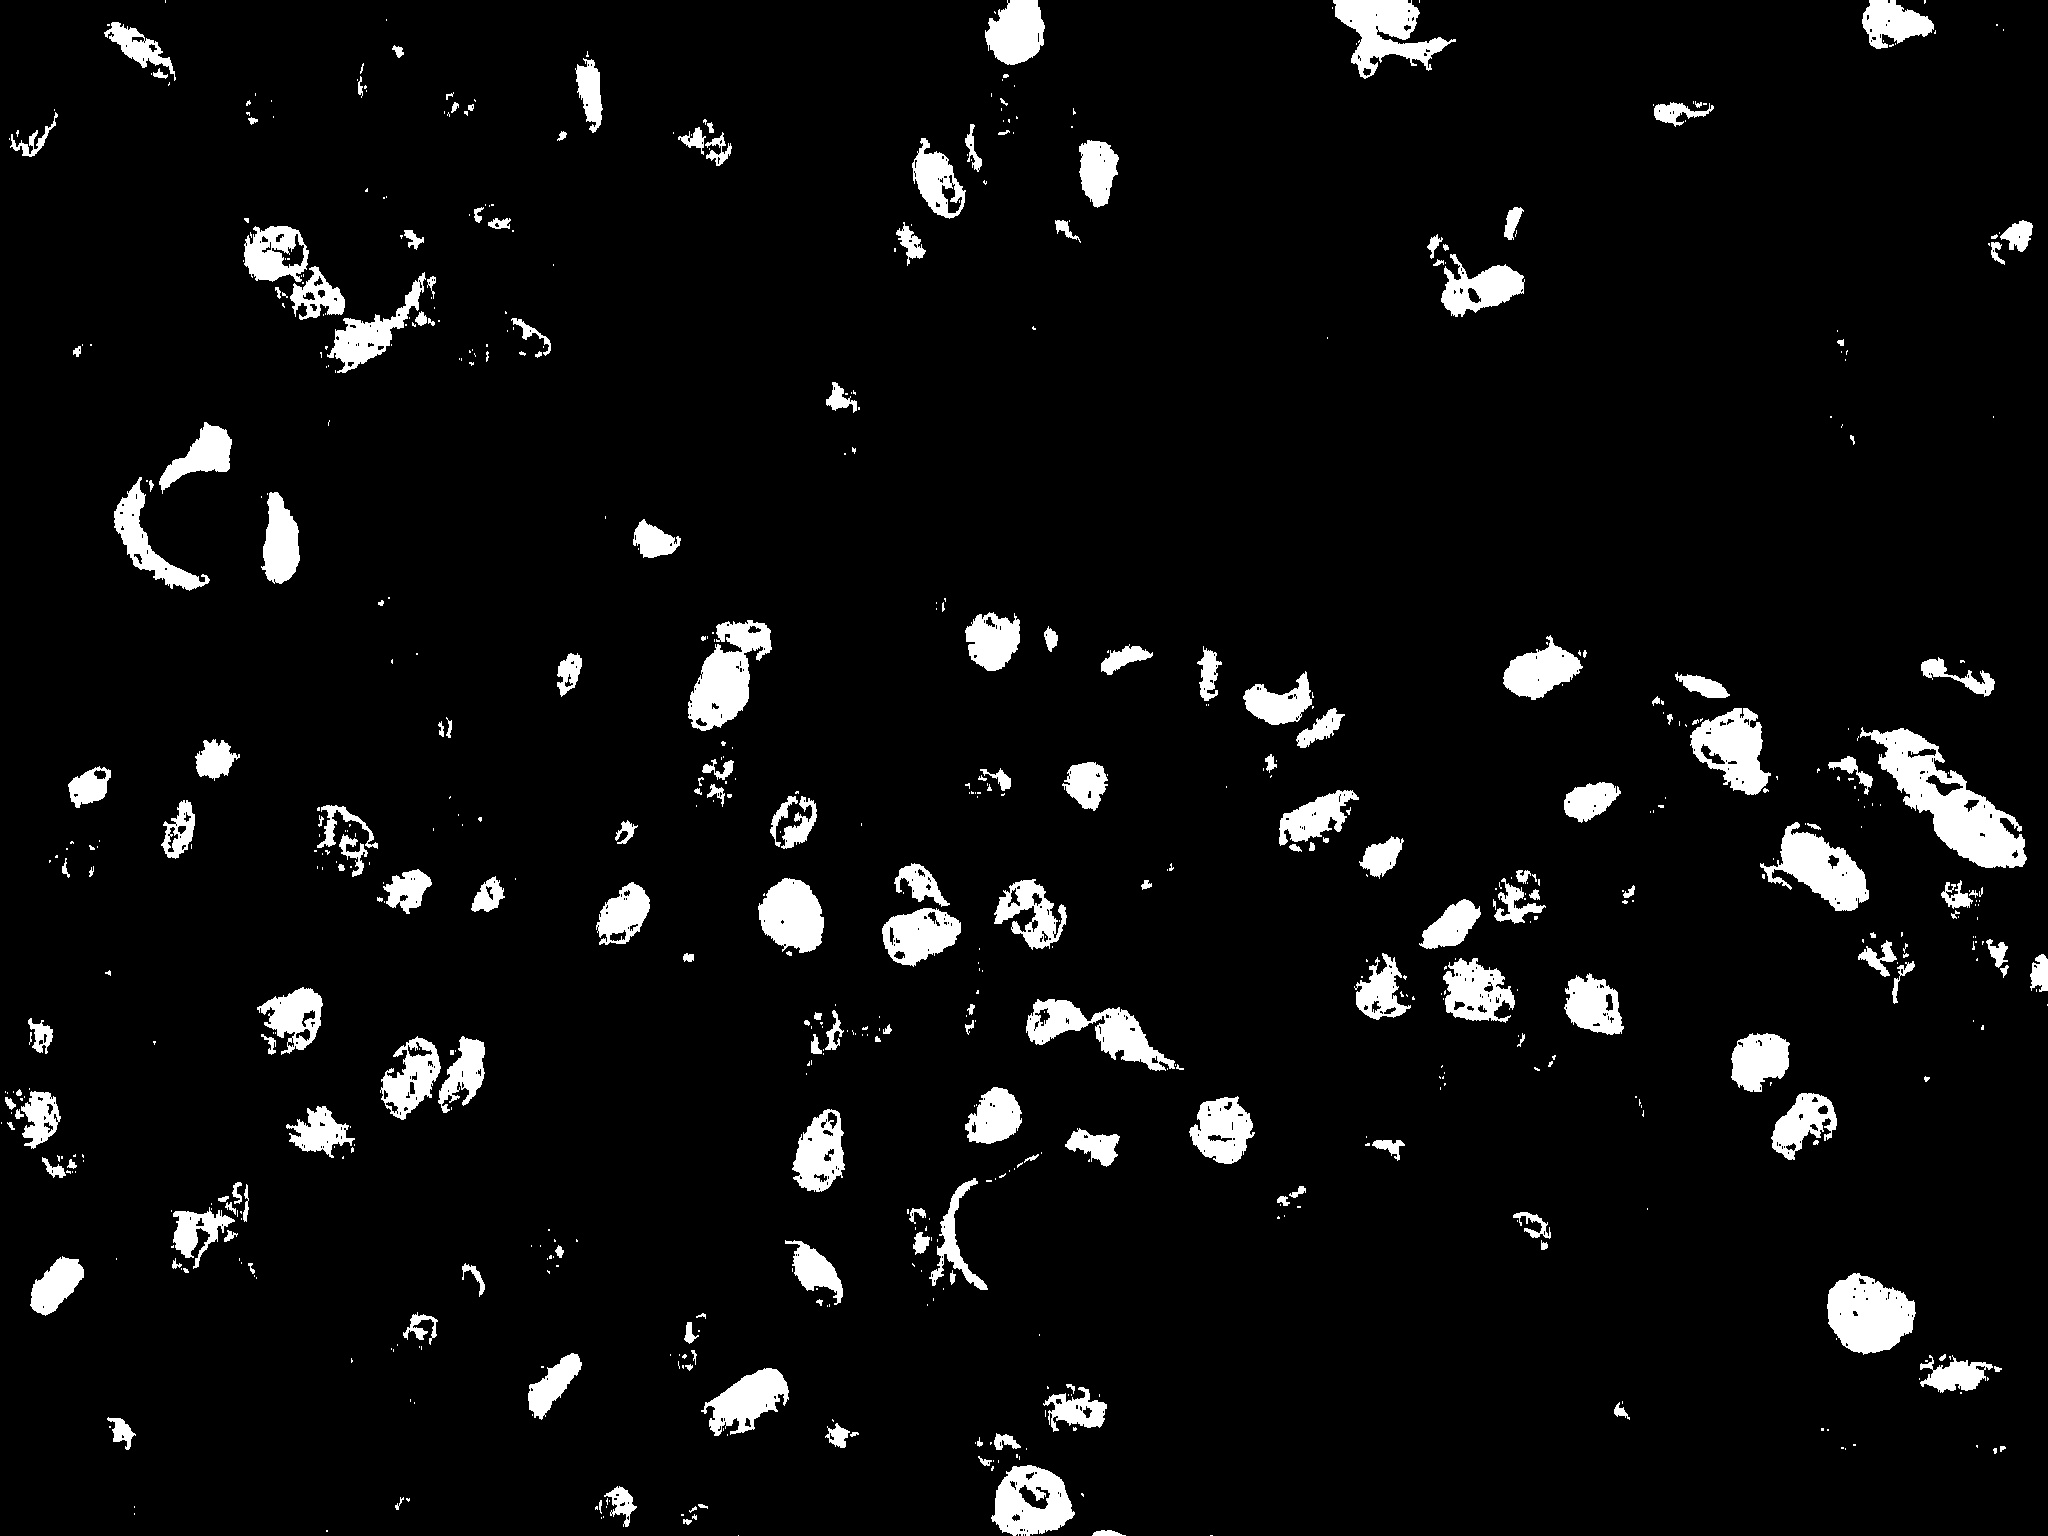
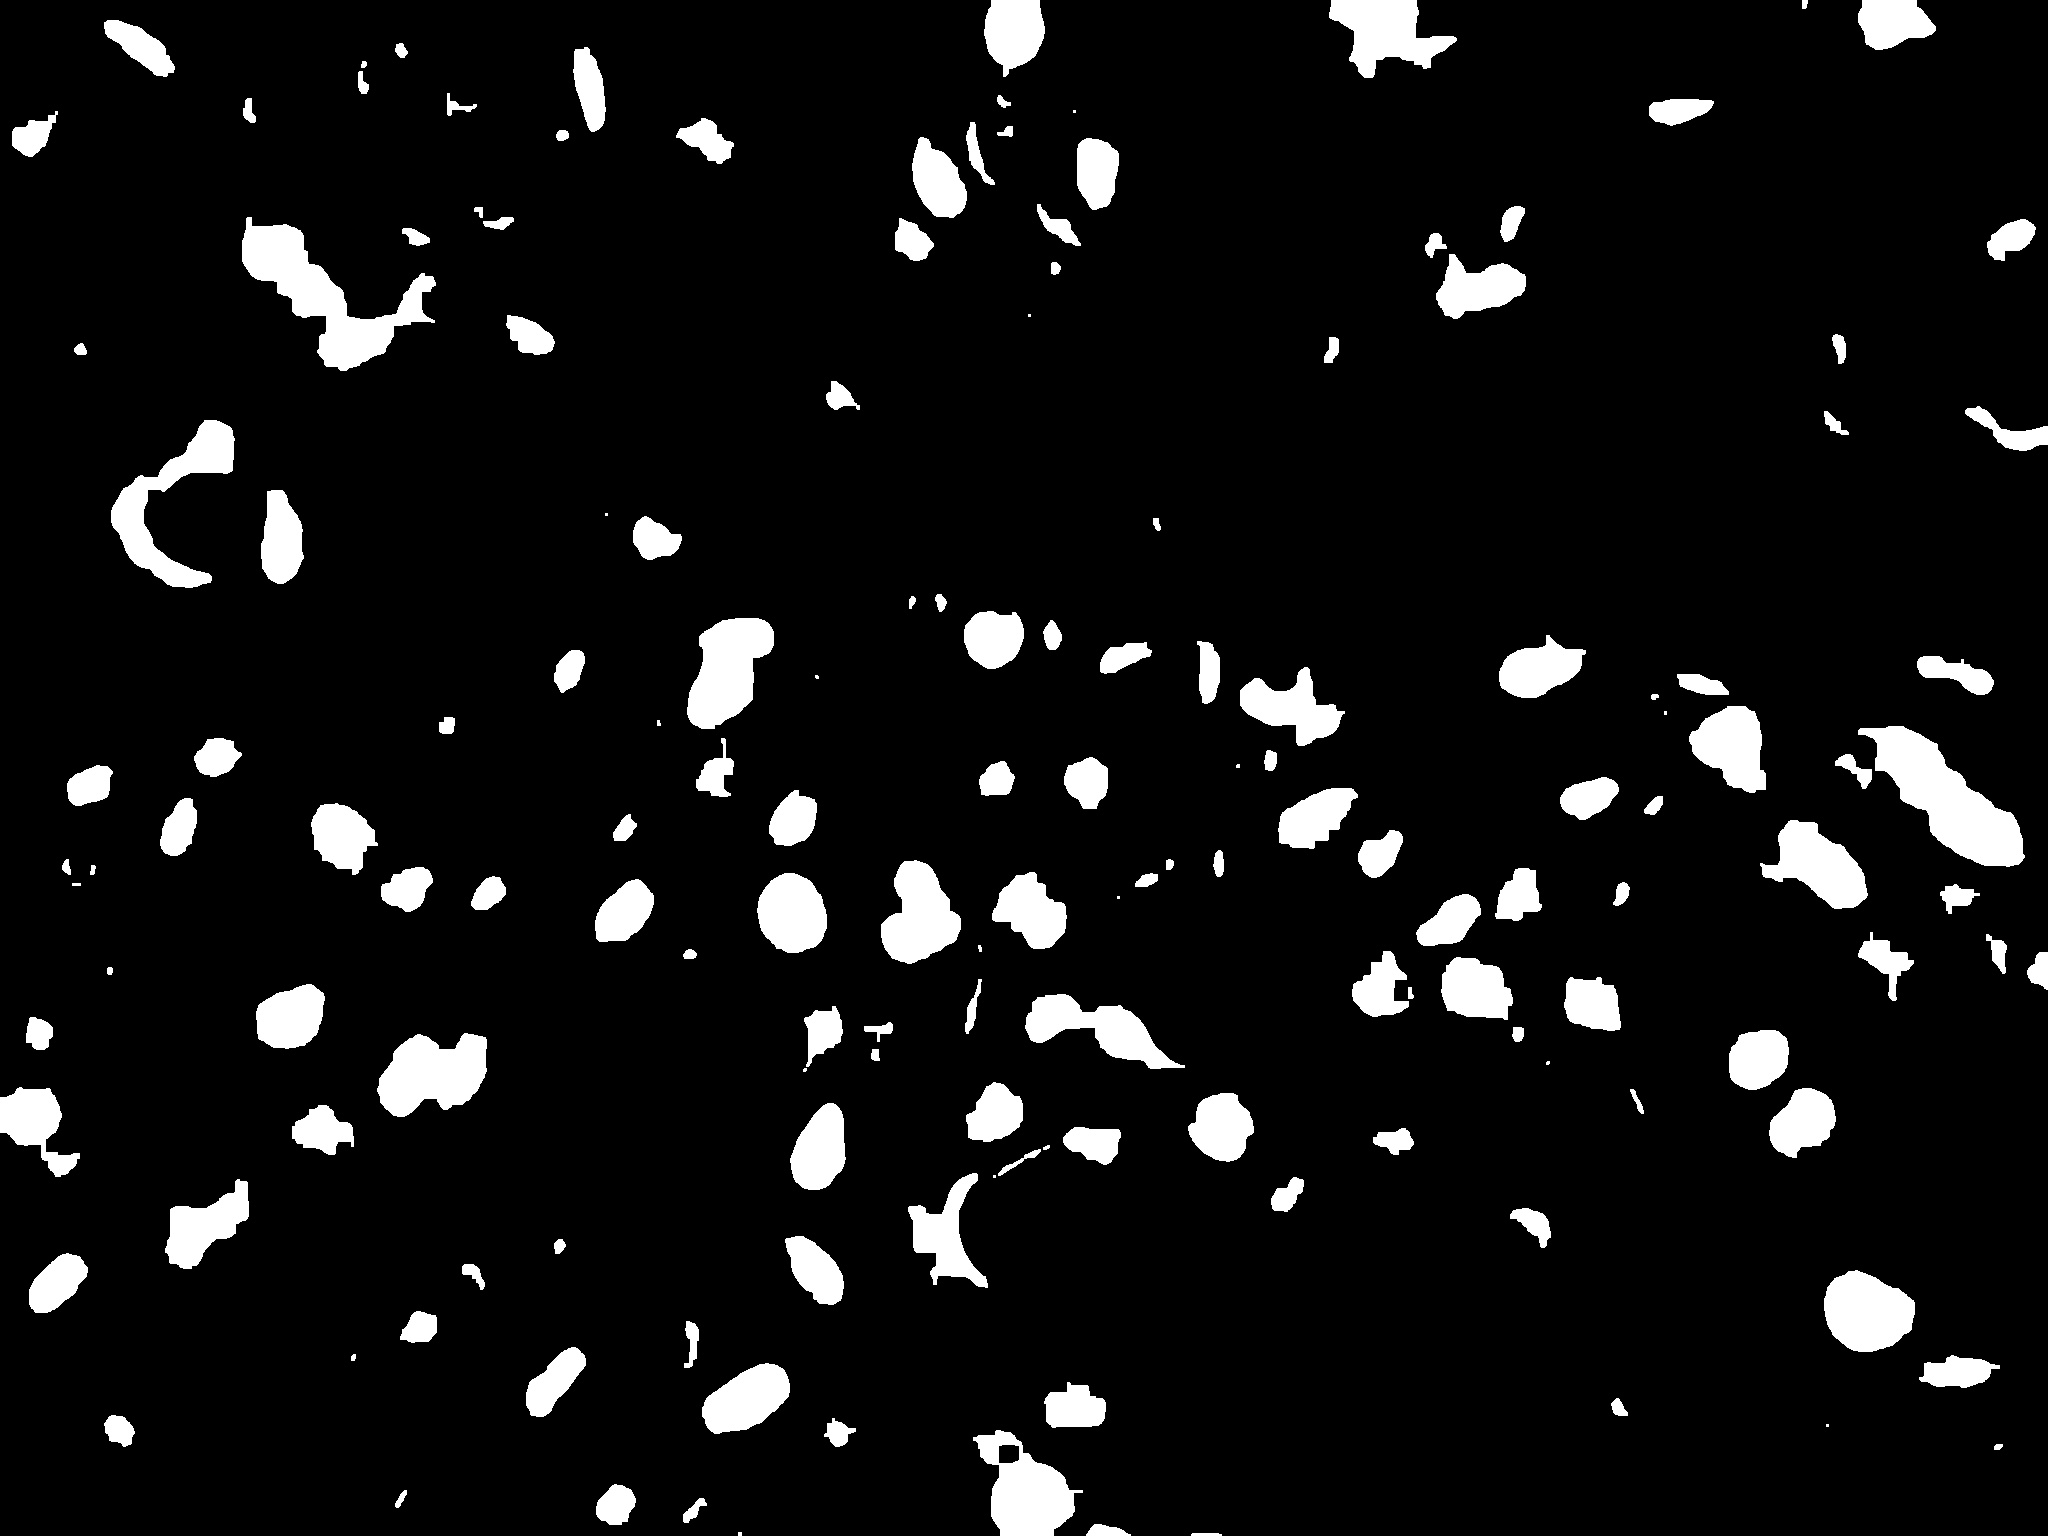
overlaped image is displayed, default hsv values are working
M and N hotkeys  to load default hsv values

diff --git a/main.py b/main.py
@@ -16,6 +16,10 @@ import requests
 from functools import reduce
 import time
 
+hsvValues = {
+            'color_1': {'l_h': 55, 'l_s': 30, 'l_v': 55, 'u_h': 179, 'u_s': 255, 'u_v': 113},
+        }
+
 def createWindows(val):
     cv2.namedWindow("Trackbars")
     cv2.resizeWindow("Trackbars", 1000, 500)
@@ -23,6 +27,7 @@ def createWindows(val):
     cv2.namedWindow("Results")
     cv2.resizeWindow("Results", 1920, 1200)
     pass
+
 
 def CreateTrackbars(val):
     cv2.createTrackbar("L - H", "Trackbars", 0, 179, ProcessImage)
@@ -38,23 +43,20 @@ def CreateTrackbars(val):
     cv.createTrackbar("ksize", "Trackbars", 0, 21, ProcessImage)
     pass
 
-def idontdoshit():
-    print('pAsS dA BuTThAaA')
-
 
 def SetVals(val):
     # Make them DICS?
-    global hsvValues
-    hsvValues = {
-        'color_1': {'l_h': 0, 'l_s': 0, 'l_v': 0, 'u_h': 0, 'h_s': 0, 'u_v': 0},
-    }
 
-    hsvValues['color_1']['l_h'] = 5
-    hsvValues['color_1']['l_s'] = 50
-    hsvValues['color_1']['l_v'] = 50
-    hsvValues['color_1']['u_h'] = 40
-    hsvValues['color_1']['u_s'] = 255
-    hsvValues['color_1']['u_v'] = 255
+    # hsvValues = {
+    #     'color_1': {'l_h': 0, 'l_s': 0, 'l_v': 0, 'u_h': 0, 'u_s': 0, 'u_v': 0},
+    # }
+
+    # hsvValues['color_1']['l_h'] = 5
+    # hsvValues['color_1']['l_s'] = 50
+    # hsvValues['color_1']['l_v'] = 50
+    # hsvValues['color_1']['u_h'] = 40
+    # hsvValues['color_1']['u_s'] = 255
+    # hsvValues['color_1']['u_v'] = 255
 
     global mask_3, mask_1, mask_2
     global lower_range, lower_range2
@@ -69,19 +71,57 @@ def SetVals(val):
     lower_range = np.array([hsvValues['color_1']['l_h'], hsvValues['color_1']['l_s'], hsvValues['color_1']['l_v']])
     upper_range = np.array([hsvValues['color_1']['u_h'], hsvValues['color_1']['u_s'], hsvValues['color_1']['u_v']])
 
-    #img = cv2.imread(r"D:\side-projects\nuclei\img\" + imagetoUse)
+    # img = cv2.imread(r"D:\side-projects\nuclei\img\" + imagetoUse)
     img = cv2.imread(r"D:\side-projects\nuclei\img\irl-img\ki001.jpg")
 
     cv2.setTrackbarPos("Morph Open", "Trackbars", morphOpenKernel)
     cv2.setTrackbarPos("Morph Open", "Trackbars", morphCloseKernel)
 
-def setTrackbarsInitialPosition(val):
-    cv2.setTrackbarPos("L - H", "Trackbars", hsvValues['color_1']['l_h'])
-    cv2.setTrackbarPos("L - S", "Trackbars", hsvValues['color_1']['l_s'])
-    cv2.setTrackbarPos("L - V", "Trackbars", hsvValues['color_1']['l_v'])
-    cv2.setTrackbarPos("U - H", "Trackbars", hsvValues['color_1']['u_h'])
-    cv2.setTrackbarPos("U - S", "Trackbars", hsvValues['color_1']['u_s'])
-    cv2.setTrackbarPos("U - V", "Trackbars", hsvValues['color_1']['u_v'])
+
+def dicValues(flag):
+    global hsvValues
+    if flag == 1:
+        hsvValues = {
+            'color_1': {'l_h': 0, 'l_s': 0, 'l_v': 0, 'u_h': 179, 'u_s': 255, 'u_v': 93},
+        }
+    elif flag == 2:
+        hsvValues = {
+            'color_1': {'l_h': 102, 'l_s': 56, 'l_v': 100, 'u_h': 179, 'u_s': 255, 'u_v': 190},
+        }
+
+
+def setTrackbarsInitialPosition(hsvValues):
+    # global hsvValues
+    # print(hsvValues)
+    # vals = hsvValues['color_1']
+    # print(vals)
+    # for k, v in vals.items():
+    #     cv2.setTrackbarPos("L - H", "Trackbars", v)
+    # #     print(v)
+    # hsvValues1 = {
+    #     'color_1': {'l_h': hsvValues['color_1']['l_h'], 'l_s': hsvValues['color_1']['l_s'], 'l_v': hsvValues['color_1']['l_v'], 'u_h': hsvValues['color_1']['u_h'], 'u_s': hsvValues['color_1']['u_s'], 'u_v': hsvValues['color_1']['u_v']},
+    # }
+
+    # SetTrackbarPos replaces the elements of the inner dict with zeros!
+    hsvLetters = ["L - H", "L - S", "L - V", "U - H", "U - S", "U - V"]
+    outerKey = list(hsvValues.keys())[0]
+    hsvValues1 = {outerKey: {}}
+    temp = hsvValues[outerKey]
+    for key, value in temp.items():
+        hsvValues1[outerKey][key] = value
+    #    cv2.setTrackbarPos(hsvLetters[i], "Trackbars", hsvValues1[outerKey][key])
+
+    # for ind in range(len(hsvLetters)):
+    #     cv2.setTrackbarPos(hsvLetters[ind], "Trackbars", hsvValues1[outerKey][key])
+
+    cv2.setTrackbarPos("L - H", "Trackbars", hsvValues1[outerKey]['l_h'])
+    cv2.setTrackbarPos("L - S", "Trackbars", hsvValues1[outerKey]['l_s'])
+    cv2.setTrackbarPos("L - V", "Trackbars", hsvValues1[outerKey]['l_v'])
+    cv2.setTrackbarPos("U - H", "Trackbars", hsvValues1[outerKey]['u_h'])
+    cv2.setTrackbarPos("U - S", "Trackbars", hsvValues1[outerKey]['u_s'])
+    cv2.setTrackbarPos("U - V", "Trackbars", hsvValues1[outerKey]['u_v'])
+    # #pass
+
 
 def ProcessImage(val):
     # Get the new values of the trackbar in real time as the user changes them
@@ -113,8 +153,9 @@ def ProcessImage(val):
 
     # Apply morphologial opening and closing.
     # !!! --- Input GRAYSCALE IMAGE --- !!!
+    global mask_3
     mask_3 = mask.copy()
-    #mask_3 = cv2.cvtColor(mask, cv2.COLOR_BGR2GRAY)
+    # mask_3 = cv2.cvtColor(mask, cv2.COLOR_BGR2GRAY)
     if morphCloseKernel != 0:
         morphCloseKernel = isEven(morphCloseKernel)
         kernelClose = np.ones((morphCloseKernel, morphCloseKernel), np.uint8)
@@ -133,7 +174,8 @@ def ProcessImage(val):
     cv2.imshow('Results', cv2.resize(stacked, None, fx=0.3, fy=0.3))
     cv2.imwrite(r"D:\side-projects\nuclei\results\temp\bitwiseNoOpenNoClose.jpg", mask_3)
 
-    #CountPixels(mask, hsv, mask_4)
+    # CountPixels(mask, hsv, mask_4)
+
 
 def overlap():
     cv2.destroyWindow("Mask 1 colored");
@@ -143,7 +185,7 @@ def overlap():
     # if plt.fignum_exists(1):
     #     plt.cla()
     #     plt.clf()
-        # plt.close()
+    # plt.close()
 
     mask_1 = plt.imread(r"D:\side-projects\nuclei\results\test-1\1\mask1.jpg")
     ret, mask_1 = cv.threshold(mask_1, 250, 255, cv.THRESH_BINARY)
@@ -167,21 +209,28 @@ def overlap():
 
     # Try 2
     img1_black_pixels_mask = np.all(mask_1 == [0, 0, 0], axis=-1)
-    img1_non_black_pixels_mask = np.any(mask_1 != [0, 0, 0], axis=-1)
+    img1_white_pixels_mask = np.any(mask_1 != [0, 0, 0], axis=-1)
+    # Setting colors instead of masks
+    img1_black[img1_black_pixels_mask] = [0, 0, 0]  # Is it RGB/BGR?
+    img1_black[img1_white_pixels_mask] = [255, 255, 255]
 
-    # Creating mask for white and black
+    # Image 2
     img2_black_pixels_mask = np.all(mask_2 == [0, 0, 0], axis=-1)
-    img2_non_black_pixels_mask = np.any(mask_2 != [0, 0, 0], axis=-1)
-
-   # Setting colors instead of masks
-    img1_black[img1_black_pixels_mask] = [0, 0, 0] #Is it RGB/BGR?
-    img1_black[img1_non_black_pixels_mask] = [255, 0, 0]
-
-    img2_black[img2_black_pixels_mask] = [0, 0, 0] #Is it RGB?
-    img2_black[img2_non_black_pixels_mask] = [0, 255, 0]
+    img2_white_pixels_mask = np.any(mask_2 != [0, 0, 0], axis=-1)
+    # Revert black and white so we can make a difference between img-1 and img2
+    # Where we HAD (PAST) black, replace them with white, and otherwise. Where we had white, replace it with black
+    img2_black[img2_black_pixels_mask] = [255, 255, 255]  # Is it RGB?
+    img2_black[img2_white_pixels_mask] = [0, 0, 0]
 
     stacked2 = np.hstack((img1_black, img2_black))
     cv2.imshow('Mask 1 - Mask 2', cv2.resize(stacked2, None, fx=0.4, fy=0.4))
+
+    # overlap_img = [0, 0, 255]
+    overlap_img[:] = [0, 0, 255]
+    overlap_img[img1_white_pixels_mask] = [255, 255, 255]
+    overlap_img[img2_white_pixels_mask] = [0, 0, 0]
+    # overlap_img[img2_black] = [255, 255, 255]
+    cv2.imshow('overlapped', cv2.resize(overlap_img, None, fx=0.4, fy=0.4))
 
     # for x in height:
     #     for y in width:
@@ -211,6 +260,7 @@ def overlap():
     #
     # img[0:height, 0:width//4, 0:depth] = 0 # DO THIS INSTEAD
 
+
 # def MorphClose(dst):
 #     kernel = cv.getTrackbarPos(trackbar_close, windowName)
 #     closingImg = cv.morphologyEx(dst, cv.MORPH_CLOSE, (256, 256))
@@ -226,6 +276,7 @@ def GaussianBlur(grayImg, ksize):
     # ShowImages(GaussianBlur.__name__, gaussianImg)
     return gaussianImg
 
+
 def isEven(value):
     if (((value % 2) == 1) or (value == 0)):
         pass
@@ -233,9 +284,10 @@ def isEven(value):
         value += 1
     return value
 
+
 def CountPixels(mask, hsv, openimg):
-    #openimg = cv2.cvtColor(openimg, cv2.COLOR_HSV2RGB)
-    #openimg = cv2.cvtColor(openimg, cv2.COLOR_RGB2GRAY)
+    # openimg = cv2.cvtColor(openimg, cv2.COLOR_HSV2RGB)
+    # openimg = cv2.cvtColor(openimg, cv2.COLOR_RGB2GRAY)
     maskShape = mask.shape
     allPixels = 1
     for i in maskShape:
@@ -267,14 +319,18 @@ def CountPixels(mask, hsv, openimg):
 
     print('black pixels (fine) define: ' + str(round(blackPixPerc, 2)) + '%' + ' of the image.')
 
+
 def CountColouredPixels():
     pass
+
 
 def ReportToCSV():
     pass
 
+
 def SaveImage(x):
     pass
+
 
 # defaultImg = np.zeros((300, 300, 3), np.uint8)
 # defaultImg[:] = (0, 0, 255)
@@ -297,6 +353,7 @@ def morphworking():
     pylab.imshow(morph2)
     pylab.show()
 
+
 # Maybe add that settings to the txt file
 def RGBToHSV():
     r, g, b = input("Your lower RGB values: ").split()
@@ -308,8 +365,10 @@ def RGBToHSV():
     hsv_brown_upper = cv2.cvtColor(rgb_brown_upper, cv2.COLOR_RGB2HSV)
     print(hsv_brown_lower, hsv_brown_upper)
 
+
 def main():
-    print("Press \'K\' to convert RGB values to HSV.\n" + "Press \'Q\'/\'W\' to save image 1/image2")
+    print("Press \'K\' to convert RGB values to HSV.\n" + "Press \'Q\'/\'W\' to save image 1 / image 2.\n" + "M and N to load default HSV values.")
+    global hsvValues
 
     # print('Which hich image would you like to process (write it with the file extension)?')
     # global imageToUse
@@ -318,7 +377,8 @@ def main():
     createWindows(0)
     CreateTrackbars(0)
     SetVals(0)
-    setTrackbarsInitialPosition(0)
+    dicValues(1)
+    setTrackbarsInitialPosition(hsvValues)
     # Init that shit
     ProcessImage(0)
 
@@ -328,7 +388,6 @@ def main():
     # if cv2.waitKey(0) & 0xFF == ord("q"):
     #     cv2.destroyAllWindows()
     #     exit()
-
 
     while (1):
         key = cv2.waitKey(0)
@@ -348,7 +407,7 @@ def main():
             cv2.imwrite(r"D:\side-projects\nuclei\results\test-1\2\mask2.jpg", mask_3)
 
             thearray2 = [[hsvValues['color_1']['l_h'], hsvValues['color_1']['l_s'], hsvValues['color_1']['l_v']],
-                        [hsvValues['color_1']['u_h'], hsvValues['color_1']['u_s'], hsvValues['color_1']['u_v']]]
+                         [hsvValues['color_1']['u_h'], hsvValues['color_1']['u_s'], hsvValues['color_1']['u_v']]]
             print(thearray2)
             overlap()
             # Also save this array as penval.npy
@@ -357,10 +416,19 @@ def main():
         elif key == ord('k') & 0xFF == ord("k"):
             RGBToHSV()
 
+        elif key == ord('m') & 0xFF == ord("m"):
+            dicValues(2)
+            setTrackbarsInitialPosition(hsvValues)
+
+        elif key == ord('n') & 0xFF == ord("n"):
+            dicValues(1)
+            setTrackbarsInitialPosition(hsvValues)
+
         else:
             cv2.destroyAllWindows()
             exit()
 
-#morphworking()
-#key = cv2.waitKey(0)
+
+# morphworking()
+# key = cv2.waitKey(0)
 main()
